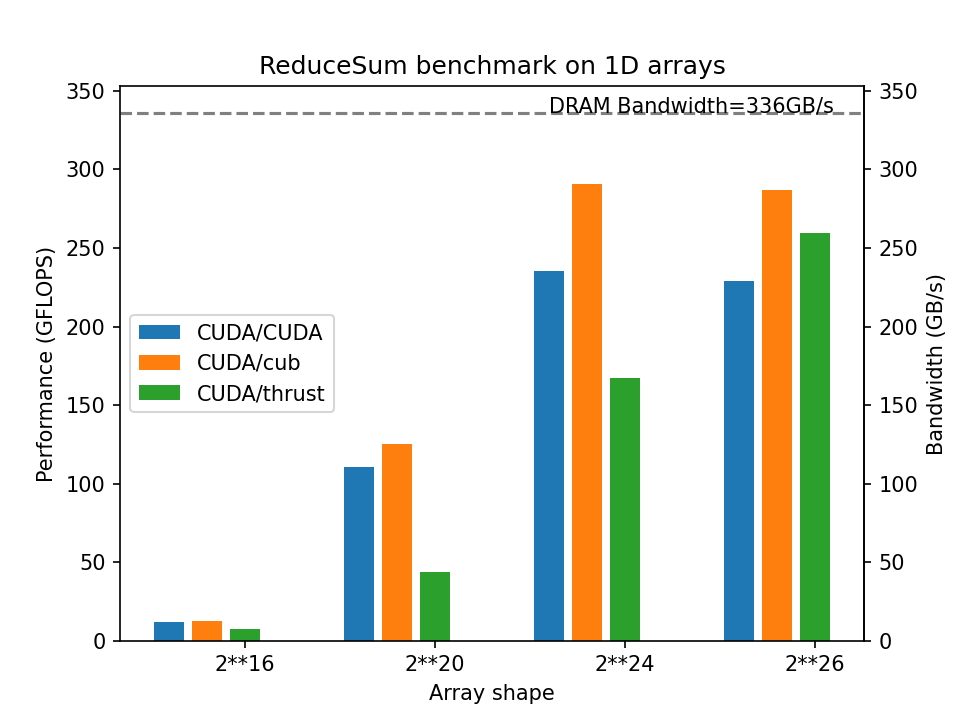
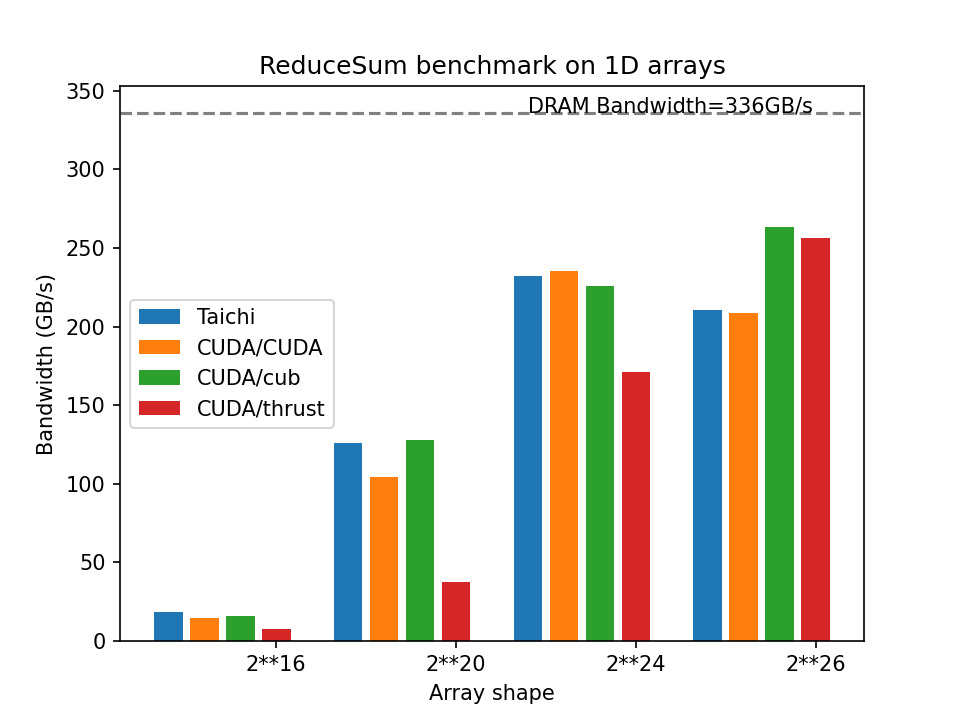
add taichi reduce sum benchmark

diff --git a/reduce_sum/plot_benchmark.py b/reduce_sum/plot_benchmark.py
@@ -1,12 +1,16 @@
 from matplotlib import pyplot as plt
 from src.cuda.benchmark import benchmark as benchmark_cuda
+from src.taichi.benchmark import benchmark as benchmark_taichi
 import sys
 import os
 
 scale = [65536, 1048576, 16777216, 67108864]
 
 def run_benchmarks():
-    return benchmark_cuda(scale)
+    results = benchmark_cuda(scale)
+    taichi_results = benchmark_taichi(scale)
+    results['taichi'] = taichi_results['taichi']
+    return results
 
 def get_flops(ts):
     flops = []
@@ -24,30 +28,29 @@ def plot_compute(results, machine="2060"):
     xlabel = ["2**16","2**20","2**24", "2**26"]
     fig, ax = plt.subplots()
 
-    cuda_flops = get_flops(results['cuda'])
-    bar_pos = [i*5+1 for i in range(len(cuda_flops))]
-    ax.bar(bar_pos, cuda_flops)
+    taichi_bandwidth = get_bandwidth(results['taichi'])
+    bar_pos = [i*5+1 for i in range(len(taichi_bandwidth))]
+    ax.bar(bar_pos, taichi_bandwidth)
     ax.set_xticks(bar_pos, xlabel)
 
-    cub_flops = get_flops(results['cub'])
-    bar_pos = [i*5+2 for i in range(len(cub_flops))]
-    ax.bar(bar_pos, cub_flops)
+    cuda_bandwidth = get_bandwidth(results['cuda'])
+    bar_pos = [i*5+2 for i in range(len(cuda_bandwidth))]
+    ax.bar(bar_pos, cuda_bandwidth)
+    ax.set_xticks(bar_pos, xlabel)
+
+    cub_bandwidth = get_bandwidth(results['cub'])
+    bar_pos = [i*5+3 for i in range(len(cub_bandwidth))]
+    ax.bar(bar_pos, cub_bandwidth)
     ax.set_xticks(bar_pos, xlabel)
     
-    thrust_flops = get_flops(results['thrust'])
-    bar_pos = [i*5+3 for i in range(len(thrust_flops))]
-    ax.bar(bar_pos, thrust_flops)
+    thrust_bandwidth = get_bandwidth(results['thrust'])
+    bar_pos = [i*5+4 for i in range(len(thrust_bandwidth))]
+    ax.bar(bar_pos, thrust_bandwidth)
     ax.set_xticks(bar_pos, xlabel)
 
-    ax.legend(['CUDA/CUDA', 'CUDA/cub', 'CUDA/thrust'])
+    ax.legend(['Taichi','CUDA/CUDA', 'CUDA/cub', 'CUDA/thrust'])
     ax.set_xlabel("Array shape")
-    ax.set_ylabel("Performance (GFLOPS)")
-    def comp2mem(x):
-        return x
-    def mem2comp(x):
-        return x
-    ax2 = ax.secondary_yaxis('right', functions=(comp2mem, mem2comp))
-    ax2.set_ylabel("Bandwidth (GB/s)")
+    ax.set_ylabel("Bandwidth (GB/s)")
     if machine == "2060":
         plt.axhline(y = 336, color='grey', linestyle = 'dashed')
         plt.text(11, 336, 'DRAM Bandwidth=336GB/s')

diff --git a/reduce_sum/src/taichi/reduce_sum.py b/reduce_sum/src/taichi/reduce_sum.py
@@ -1,19 +1,27 @@
 import taichi as ti 
 
-ti.init(ti.cuda, kernel_profiler=True)
+ti.init(ti.cuda,
+    kernel_profiler=True,
+    )
 
-@ti.kernel 
-def ReduceSum():
-    f = ti.field(ti.f32, (2 ** 22,))
-    sum = 0.0
-    # Kernel time
-    ti.profiler.clear_kernel_profiler_info()
-    for i in ti.grouped(f):
-        ti.atomic_add(sum, f[i])
-    ti.sync()
-    kernel_time = ti.profiler.get_kernel_profiler_total_time() * 1000.0
-    print(sum)
-    print(kernel_time)
-    #return kernel_time
-
-reduce()
+def reduce_sum(nitems=2**26, repeats=5):
+    f = ti.field(ti.f32, (nitems,))
+    @ti.kernel
+    def init_kernel():
+        for i in f:
+            f[i] = 1.0
+    @ti.kernel 
+    def reduce_sum_kernel():
+        sum = 0.0
+        for i in ti.grouped(f):
+            ti.atomic_add(sum, f[i])
+    kernel_time = 0.0
+    niter = 0
+    while niter < repeats:
+        init_kernel()
+        ti.profiler.clear_kernel_profiler_info()
+        reduce_sum_kernel()
+        ti.sync()
+        kernel_time += ti.profiler.get_kernel_profiler_total_time() * 1000
+        niter += 1
+    return kernel_time/repeats

diff --git a/reduce_sum/src/taichi/benchmark.py b/reduce_sum/src/taichi/benchmark.py
@@ -1,4 +1,9 @@
-from .reduce_sum import ReduceSum
+from .reduce_sum import reduce_sum
 import time
 
+def benchmark(scale=list):
+    results = []
+    for i in scale:
+        results.append(reduce_sum(i))
 
+    return {"taichi":results}
